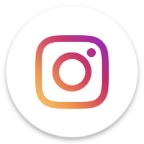
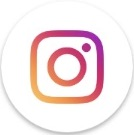
background map 적용

Changed region(s): [[0.209, 0.2074, 0.7761, 0.8], [0.0, 0.3852, 1.0, 1.0]]

diff --git a/src/pages/[locale]/index.tsx b/src/pages/[locale]/index.tsx
@@ -1,6 +1,5 @@
 import Timer from '@/components/Timer';
 import useTranslation from '@/hooks/useTranslation';
-import { useRouter } from 'next/navigation';
 import Link from 'next/link';
 
 export default function Index() {
@@ -10,10 +9,11 @@ export default function Index() {
     <div>
       <img
         alt={'header'}
-        className={'max-h-96 overflow-hidden w-full object-cover bg-cover bg-center'}
+        className={'h-96 overflow-hidden w-full object-cover bg-cover bg-center'}
         src={'/header.jpeg'}
       />
-      <div className={'px-4'}>
+      <div className={'relative h-[calc(100vh-440px)] px-4'}>
+        <div className={"z-[-1] h-full left-[0px] w-[100vw] absolute bg-[url('/background.jpeg')] object-contain bg-center opacity-20"} />
         <Timer/>
         <div>
           <div className={'mx-auto mt-4 text-xl w-96 text-blue-500 text-center'}>{i18n.ingress.anomaly.title}</div>
@@ -30,7 +30,7 @@ export default function Index() {
               <img alt={'telegram icon'} className={'rounded-full shadow-lg cursor-pointer m-auto h-[90px]'} src={'/telegram.jpeg'}/>
             </Link>
             <Link href={'https://instagram.com/2023ctrlsongpa'} target={'_blank'}>
-              <img alt={'instagram icon'} className={'cursor-pointer m-auto h-24'} src={'/instagram.jpeg'}/>
+              <img alt={'instagram icon'} className={'rounded-full cursor-pointer m-auto h-24'} src={'/instagram.jpeg'}/>
             </Link>
             <Link href={'https://cafe.naver.com/ingressresistance'} target={'_blank'}>
               <img alt={'navercafe icon'} className={'rounded-full shadow-lg cursor-pointer m-auto h-[90px]'} src={'/navercafe.webp'}/>

diff --git a/src/components/LocaleButton.tsx b/src/components/LocaleButton.tsx
@@ -12,7 +12,7 @@ export default function LocaleButton() {
       inline-flex w-full justify-center gap-x-1.5 rounded-md bg-white px-3 py-2 text-sm
       font-semibold text-gray-900 shadow-sm ring-1 ring-inset ring-gray-300 hover:bg-gray-50
       "
-      href={`/${locale === 'kr' ? '/en' : '/kr'}`}
+      href={`${locale === 'kr' ? '/en' : '/kr'}`}
     >
       <svg xmlns="http://www.w3.org/2000/svg" fill="none" viewBox="0 0 24 24" strokeWidth={1.5} stroke="currentColor"
            className="w-6 h-6">

diff --git a/tailwind.config.js b/tailwind.config.js
@@ -7,11 +7,7 @@ module.exports = {
   ],
   theme: {
     extend: {
-      backgroundImage: {
-        'gradient-radial': 'radial-gradient(var(--tw-gradient-stops))',
-        'gradient-conic':
-          'conic-gradient(from 180deg at 50% 50%, var(--tw-gradient-stops))',
-      },
+      backgroundImage: {},
       screens: {
         mobile: { max: '720px' },
       },
